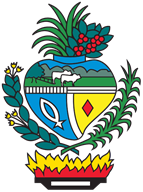
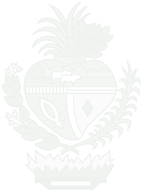
Troca o brasao colorido por versao monocromatica e o trofeu por medalha

diff --git a/frontend/src/estilos/base.css b/frontend/src/estilos/base.css
@@ -448,16 +448,17 @@ textarea {
 }
 
 /*
- * Brasão do TJGO, colorido. Sobre o verde-escuro o contorno preto dele some,
- * mas as cores seguram a leitura; a sombra o descola do fundo. É o único
- * elemento colorido da lateral além do filete dourado.
+ * Brasão do TJGO em versão monocromática clara, como gravura: os traços do
+ * desenho viram linhas claras e as áreas brancas ficam vazadas. O colorido
+ * original brigava com o verde-escuro. A logo colorida aparece só onde o fundo
+ * é claro (rodapé da conferência pública).
  */
 .marca-brasao {
   display: block;
   width: auto;
   height: 52px;
   margin-bottom: var(--e4);
-  filter: drop-shadow(0 2px 6px rgba(0, 0, 0, 0.35));
+  opacity: 0.92;
 }
 
 .marca:hover .marca-orgao {

diff --git a/frontend/src/estilos/paginas.css b/frontend/src/estilos/paginas.css
@@ -53,7 +53,7 @@
   width: auto;
   height: 88px;
   margin-bottom: var(--e5);
-  filter: drop-shadow(0 2px 8px rgba(0, 0, 0, 0.4));
+  opacity: 0.92;
 }
 
 .entrada-apresentacao h1 {
